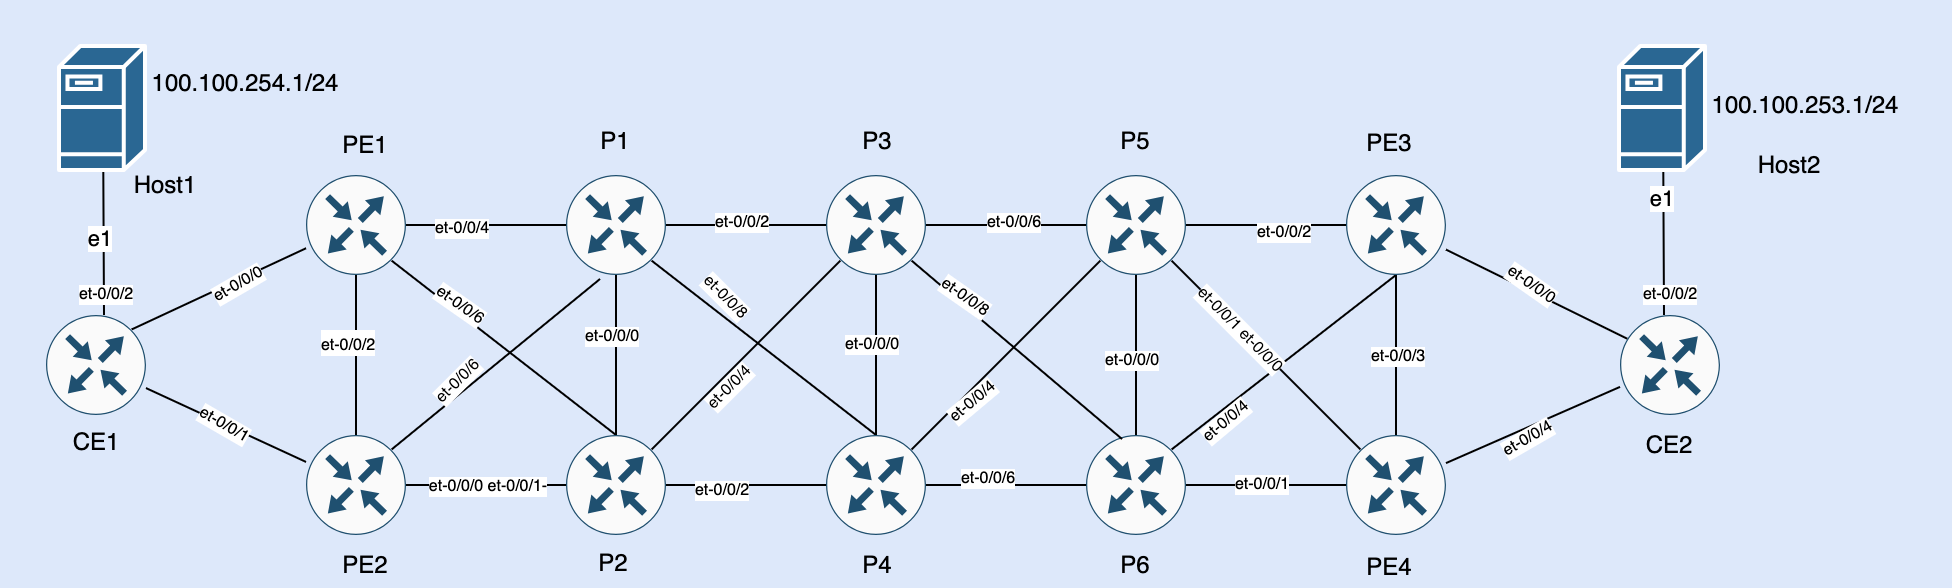
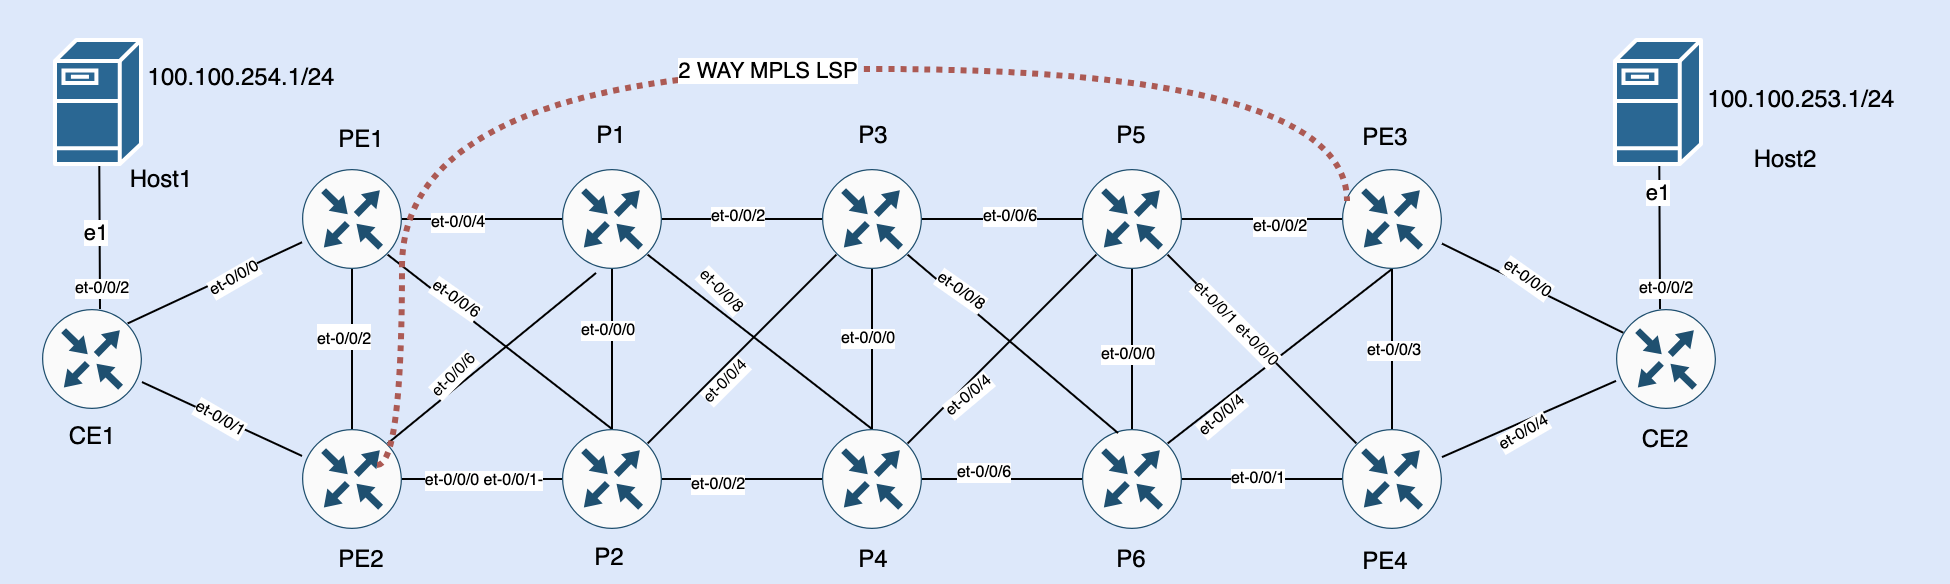
readme updated

diff --git a/README.md b/README.md
@@ -1,4 +1,8 @@
 # MPLS-Backbone-Class-Of-Service-Design-Principals
-* In this wiki I will explain  high level design principals for Class Of Service  in MPLS Backbone Network. 
+* Designing and deploying Class of Service in MPLS backbone network is a complex topic and explaining all the components would require lengthy document. However in this document I will try to explain high level design principals with implementation details for a simple use case. I will not discuss any of implementation details related to MPLS LSP but focus would be on Class of Service basic design principals. 
 ## Toplogy
 ![toplogy](./images/toplogy.png)
+## Use Case
+* ICMP traffic from Host1 to Host2 should be give best-effort treatment while ssh traffic should be given assured-forwarding treatment. 
+## Design Considerations
+* Traffic entering into Customer Edge (CE1) router will be classified by matching source address and protocols , destination port (for ssh traffic) and will be assigned to appropriate forwarding class. This type of traffic classification is "Behavioral Aggregated" classification. Egress traffic from CE1 towards Provider Edge (PE) 1&2 routers will be marked with appropriate DSCP code points. Once traffic will enter PE routers it will be classified by matching DSCP bits and traffic will be assigned to appropriate forwarding class. This type of class fiction is called multi field classification. Source PEs traffic will encapsulate packets in MPLS header and will forward it towards destination PEs. As DSCP based multi filed classified packets will be not identified by MPLS label switch routers (LSR) and to solve this challenge we need to apply EXP based rewrite rule on source PEs egress interface and on each LSR' egress interfaces. Subsequently on ingress interface of each LSR traffic will be classified using MPLS header EXP bits.  Once traffic will reach egress PEs, MPLS label will be removed and IP packet will be forwarded to egress CE. On egress PE interfaces connected with egress CE we will apply DSCP based rewrite rules so that on egress CE ingress interface DSCP based multi filed classification could happen and eventually on egress CE traffic will exit to destination host via appropriate queue of egress interface. 
